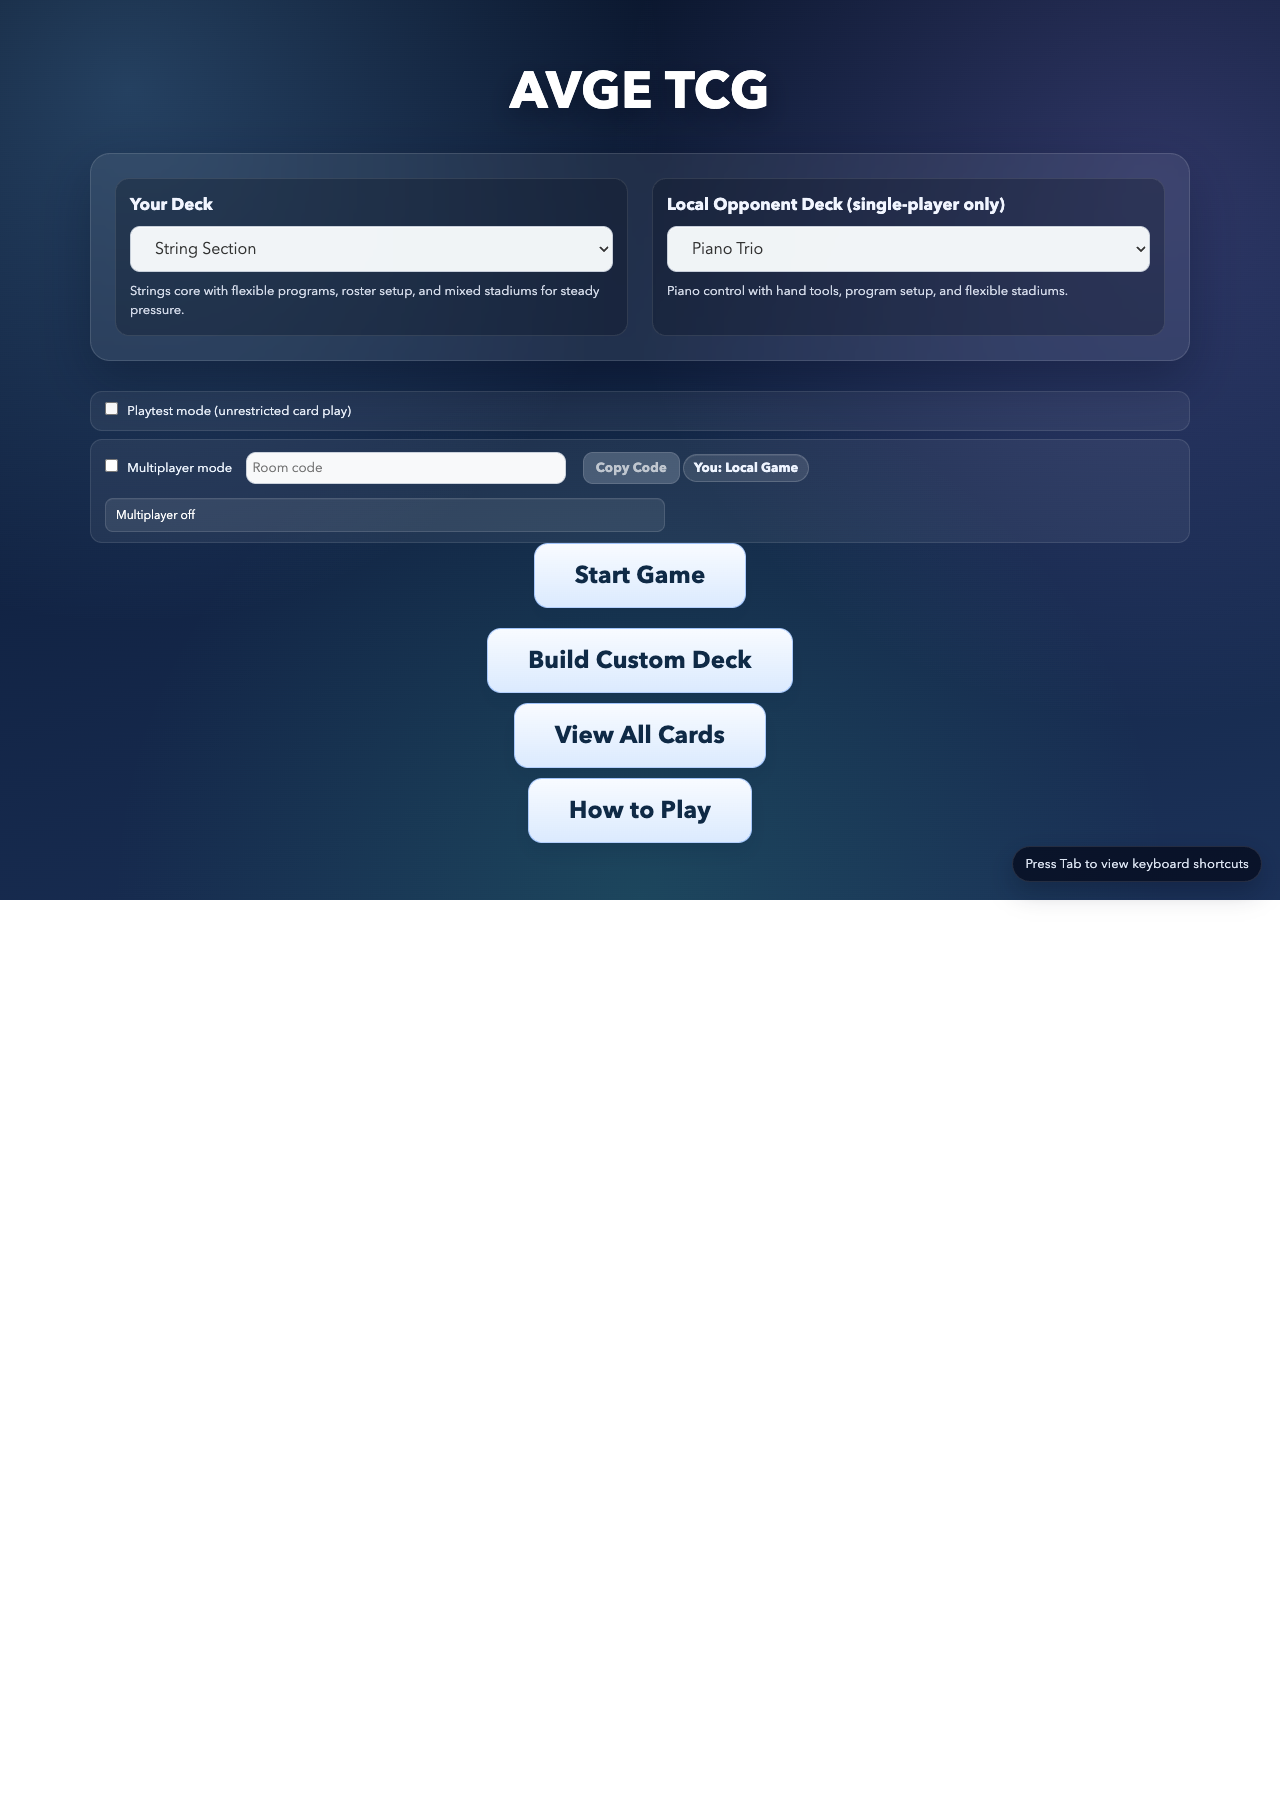
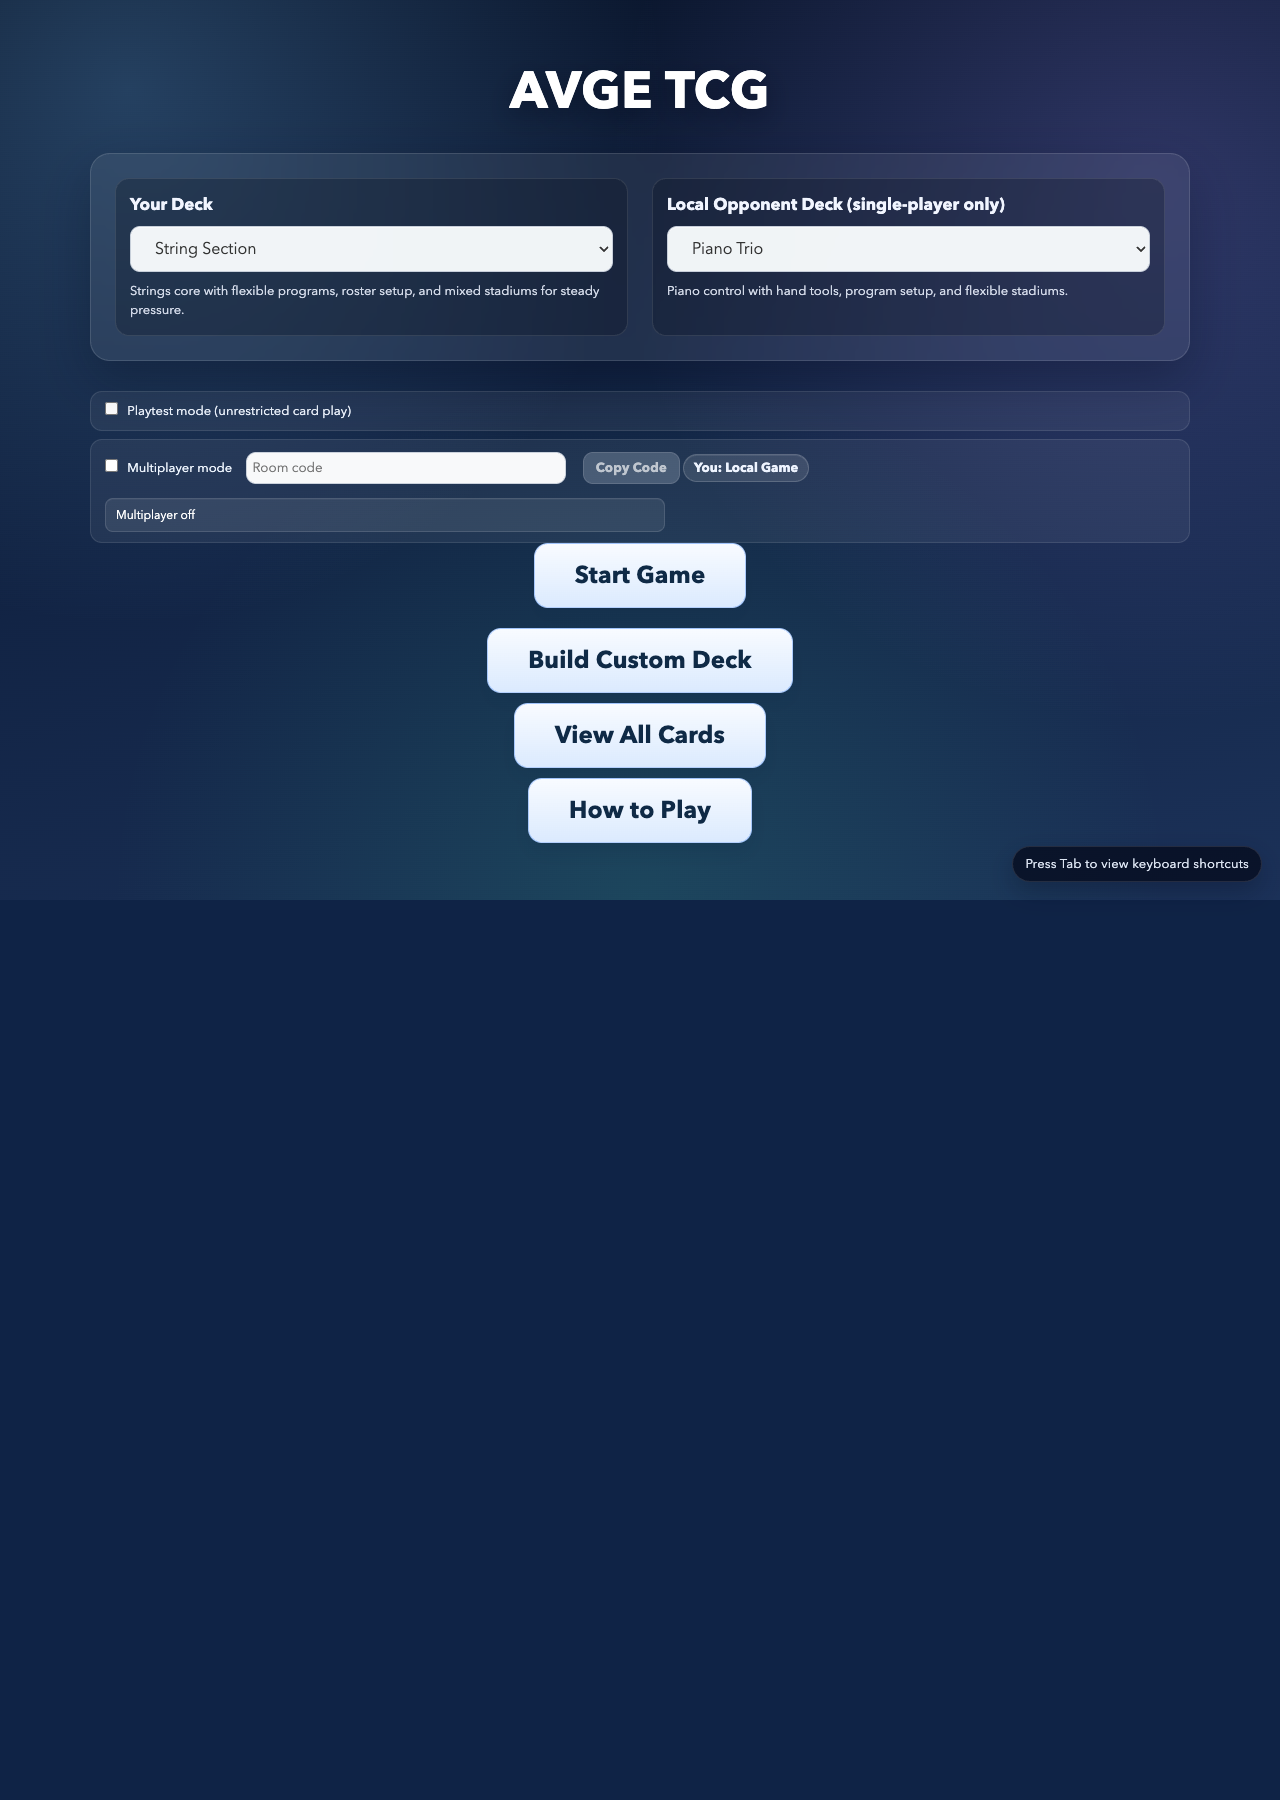
push

diff --git a/game.js b/game.js
@@ -1369,6 +1369,7 @@ function syncResponsiveUiDefaults() {
 
 function updateToolbarState() {
     const selectedLabel = document.getElementById('toolbar-selected-card');
+    const actionHint = document.getElementById('toolbar-action-hint');
     const playBtn = document.getElementById('toolbar-play-btn');
     const energyBtn = document.getElementById('toolbar-energy-btn');
     const attackBtn = document.getElementById('toolbar-attack-btn');
@@ -1403,11 +1404,12 @@ function updateToolbarState() {
     const inSetup = isOpeningSetupPhase();
     const maxEnergy = getEnergyAttachLimit(localPlayerNum);
     const selectedInHand = !!(selected && localPlayer?.hand?.some((c) => c.id === selected.id));
+    const selectedTurnRestriction = selectedInHand ? canPlayCardOnCurrentTurn(selected) : { ok: true, reason: '' };
     const selectedIsCharacter = !!(selected && selected.cardType === 'character');
     const selectedIsLocalCharacterInPlay = !!(selected && selectedIsCharacter && localPlayer && [localPlayer.active, ...(localPlayer.bench || [])].some((c) => c && c.id === selected.id));
 
     if (playBtn) {
-        playBtn.disabled = !canAct || (!selectedInHand && !inSetup);
+        playBtn.disabled = !canAct || inSetup || !selectedInHand || !selectedTurnRestriction.ok;
     }
     if (energyBtn) {
         const maxReached = Number.isFinite(maxEnergy) && game.energyAttachedThisTurn >= maxEnergy;
@@ -1418,6 +1420,22 @@ function updateToolbarState() {
     }
     if (retreatBtn) {
         retreatBtn.disabled = !canAct || inSetup || !selectedIsLocalCharacterInPlay || localPlayer?.active?.id !== selected?.id;
+    }
+
+    if (actionHint) {
+        let hintText = 'Select a card in your hand to play.';
+        if (game.phase === 'gameover') {
+            hintText = 'Game over.';
+        } else if (inSetup) {
+            hintText = 'Complete opening setup before playing hand cards.';
+        } else if (!canAct) {
+            hintText = "It's your opponent's turn.";
+        } else if (selectedInHand && !selectedTurnRestriction.ok) {
+            hintText = selectedTurnRestriction.reason;
+        } else if (selectedInHand) {
+            hintText = `Ready to play: ${selected.name}`;
+        }
+        actionHint.textContent = hintText;
     }
 }
 
@@ -3033,6 +3051,15 @@ function renderHand() {
         const canInteractWithHand = multiplayer.enabled
             ? (Number.isFinite(localPlayerNumber) && Number(handOwner) === localPlayerNumber)
             : Number(handOwner) === currentTurnPlayer;
+        const turnRestriction = canInteractWithHand ? canPlayCardOnCurrentTurn(card) : { ok: true, reason: '' };
+        if (!turnRestriction.ok) {
+            cardElement.classList.add('hand-card-restricted');
+            cardElement.title = turnRestriction.reason;
+            const badge = document.createElement('div');
+            badge.className = 'hand-card-restricted-badge';
+            badge.textContent = 'P1 turn 1: blocked';
+            cardElement.appendChild(badge);
+        }
         // Only allow click if this is the local player's hand
         if (canInteractWithHand) {
             cardElement.onclick = () => selectCard(card);

diff --git a/styles.css b/styles.css
@@ -6056,3 +6056,73 @@ body.multiplayer-perspective-p2 #player2-board .board-section {
     font-weight: 800;
     color: #7a1900;
 }
+
+/* UI clarity pass: action guidance + restricted-card affordance + less intrusive turn banner. */
+#toolbar-action-hint {
+    margin-top: 4px;
+    margin-bottom: 6px;
+    font-size: 12px;
+    font-weight: 600;
+    color: #23406f;
+    min-height: 16px;
+}
+
+.hand-card-wrapper.hand-card-restricted .card {
+    opacity: 0.78;
+    box-shadow: inset 0 0 0 2px rgba(176, 48, 39, 0.45);
+}
+
+.hand-card-restricted-badge {
+    position: absolute;
+    left: 6px;
+    right: 6px;
+    top: 6px;
+    z-index: 4;
+    font-size: 10px;
+    line-height: 1.2;
+    text-align: center;
+    font-weight: 800;
+    color: #7a1900;
+    background: rgba(255, 224, 138, 0.95);
+    border: 1px solid rgba(152, 111, 0, 0.5);
+    border-radius: 8px;
+    padding: 2px 4px;
+    pointer-events: none;
+}
+
+.turn-change-overlay {
+    position: fixed;
+    top: 128px;
+    left: 50%;
+    transform: translateX(-50%);
+    width: auto;
+    height: auto;
+    pointer-events: none;
+    background: transparent;
+    backdrop-filter: none;
+    -webkit-backdrop-filter: none;
+}
+
+.turn-change-overlay__text {
+    font-size: 18px;
+    letter-spacing: 0.01em;
+    padding: 8px 16px;
+    border-radius: 14px;
+    background: rgba(9, 24, 54, 0.9);
+    box-shadow: 0 8px 18px rgba(5, 16, 38, 0.24);
+}
+
+#start-screen {
+    min-height: 100vh;
+    min-height: 100dvh;
+    width: 100%;
+}
+
+html {
+    background: #0f2346;
+}
+
+html,
+body {
+    min-height: 100%;
+}

diff --git a/index.html b/index.html
@@ -190,6 +190,7 @@
 
             <div id="game-toolbar" class="game-toolbar">
                 <div id="toolbar-selected-card" class="toolbar-selected-card">No card selected</div>
+                <div id="toolbar-action-hint" class="toolbar-action-hint">Select a card in your hand to play.</div>
                 <div class="game-toolbar-actions">
                     <button id="toolbar-play-btn" class="btn toolbar-btn" type="button">Play Selected</button>
                     <button id="toolbar-energy-btn" class="btn toolbar-btn" type="button">Attach Energy</button>

diff --git a/progress.md b/progress.md
@@ -901,3 +901,24 @@ Notes:
   - `node output/ui_smoke_test.mjs` ✅
   - `node output/opponent_hand_counter_test.mjs` ✅
   - `node output/custom_deck_multiplayer_regression_test.mjs` ⚠ timed out waiting for main phase (existing harness flake seen in prior passes)
+
+2026-03-08
+- UI clarity pass completed (player-facing affordances and turn-flow readability):
+  - Added toolbar action hint line under selected-card text to explain why actions are disabled (`setup`, `opponent turn`, `first-turn card restriction`, etc.).
+  - Updated toolbar play-button disable logic to align with game rules and provide clear actionable guidance.
+  - Added first-turn restriction affordance directly on hand cards:
+    - restricted cards now render dimmed,
+    - badge shown (`P1 turn 1: blocked`),
+    - hover title explains the exact restriction.
+  - Turn-change overlay redesigned to be less intrusive:
+    - moved to top-center,
+    - transparent backdrop,
+    - compact pill message so it no longer obscures board state.
+  - Start-screen viewport consistency fix:
+    - added root-page background fallback and stronger start-screen viewport sizing (`100vh/100dvh`) to prevent lower-page white artifact on tall captures.
+- Validation completed:
+  - `node --check game.js` passed.
+  - `node output/ui_smoke_test.mjs` passed.
+  - Visual re-check of `output/ui-smoke-start.png` and `output/ui-smoke-game.png` confirms improved clarity and no white lower-page region.
+- Notes/TODO:
+  - `styles.css` still contains multiple historical override blocks; consider a dedicated cleanup/refactor pass to reduce conflicting selectors and improve maintainability.
